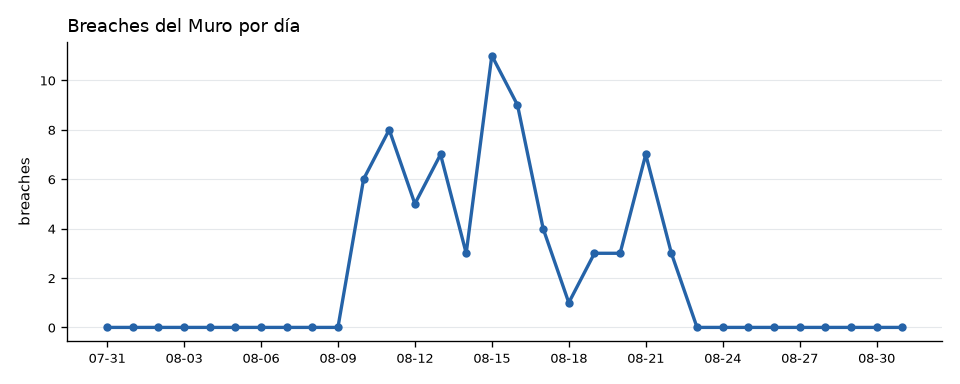
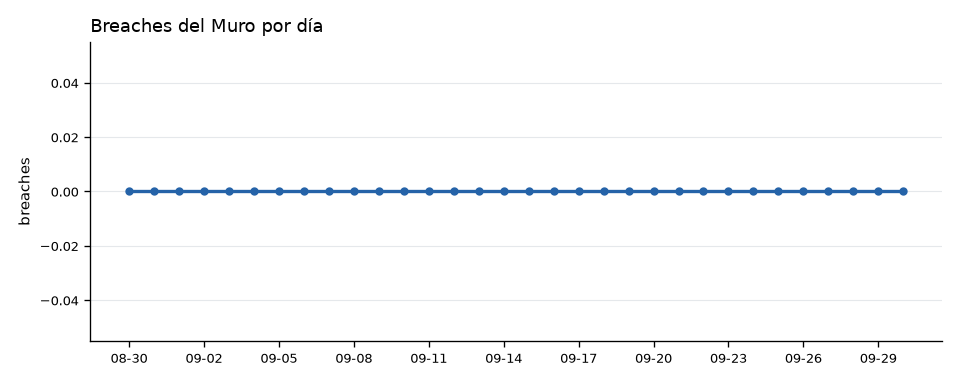
🌍 Reporte Roy 2026-09-30 18:41 UTC

diff --git a/estado/REPORTE_MENSUAL.md b/estado/REPORTE_MENSUAL.md
@@ -1,29 +1,56 @@
 # 🗓 Reporte mensual — Sentinel Omega
-*Generado 2026-08-31 16:57 hora MX — ventana 31 días*
+*Generado 2026-09-30 12:41 hora MX — ventana 31 días*
 
 ## Resumen
-- Ciclos corridos: **306**
-- Fantasma medio del periodo: **9.2**
-- Fantasma máximo: **27.5**
-- Breaches del Muro: **70**
-- Asertividad viva del periodo: **19%** (n=416 resueltas)
+- Ciclos corridos: **283**
+- Fantasma medio del periodo: **10.3**
+- Fantasma máximo: **61.2**
+- Breaches del Muro: **0**
+- Asertividad viva del periodo: **11%** (n=1336 resueltas)
 
 ## Cimática
-- Patrones `general`: 291 (frecuencia máx 10)
-- Patrones `nodo`: 817 (frecuencia máx 12)
+- Patrones `general`: 458 (frecuencia máx 10)
+- Patrones `nodo`: 1294 (frecuencia máx 15)
 
 | Patrón | Ámbito | Evento asociado | Frecuencia |
 |---|---|---|---:|
+| 1562 | nodo 35 | SISMO_M5 | 15 |
 | 163 | nodo 14 | SISMO_M6 | 12 |
 | 313 | nodo 14 | SISMO_M6 | 11 |
 | 800 | general | SISMO_M5 | 10 |
+| 1568 | nodo 35 | SISMO_M5 | 10 |
 | 801 | nodo 48 | SISMO_M5 | 9 |
+| 1652 | nodo 14 | SISMO_M5 | 9 |
 | 451 | general | SISMO_M6 | 8 |
 | 452 | nodo 35 | SISMO_M6 | 8 |
 | 456 | nodo 14 | SISMO_M6 | 8 |
-| 635 | nodo 14 | SISMO_M5 | 8 |
-| 973 | nodo 14 | SISMO_M5 | 8 |
-| 985 | nodo 14 | SISMO_M5 | 8 |
+
+## ✅ Aciertos — Últimos 31 días
+
+| Métrica | Valor |
+|---------|-------|
+| **Aciertos** | 11110 |
+| **Fallos** | 42425 |
+| **Falsos positivos** | 1 |
+| **Tasa de acierto** | 20.8% `▓▓░░░░░░░░░░` |
+| **Total predicciones** | 53536 |
+
+![Distribución de veredictos](graficas/aciertos_31d_pastel.png)
+
+### 🤖 Desempeño por Bot
+
+| Bot | Aciertos | Tasa | Confianza | Ventana declarada |
+|-----|----------|------|-----------|--------------------|
+| omega | 3380/8867 | 38% `▓▓▓░░░░░` | 0.39 | 4.4h |
+| beta1 | 2609/8867 | 29% `▓▓░░░░░░` | 0.30 | 4.4h |
+| padre | 1892/8867 | 21% `▓▓░░░░░░` | 0.21 | 4.4h |
+| alfa1 | 1712/8867 | 19% `▓▓░░░░░░` | 0.20 | 4.4h |
+| delta | 948/8867 | 11% `▓░░░░░░░` | 0.11 | 4.4h |
+| beta2 | 515/8867 | 6% `░░░░░░░░` | 0.06 | 4.4h |
+| jupiter | 38/167 | 23% `▓▓░░░░░░` | 0.26 | 231.3h |
+| alfa2 | 16/167 | 10% `▓░░░░░░░` | 0.30 | 231.3h |
+
+![Desempeño por bot](graficas/aciertos_31d_barras.png)
 
 ![Fantasma medio diario](graficas/mensual_fantasma.png)
 ![Alertas por día](graficas/mensual_alertas.png)
